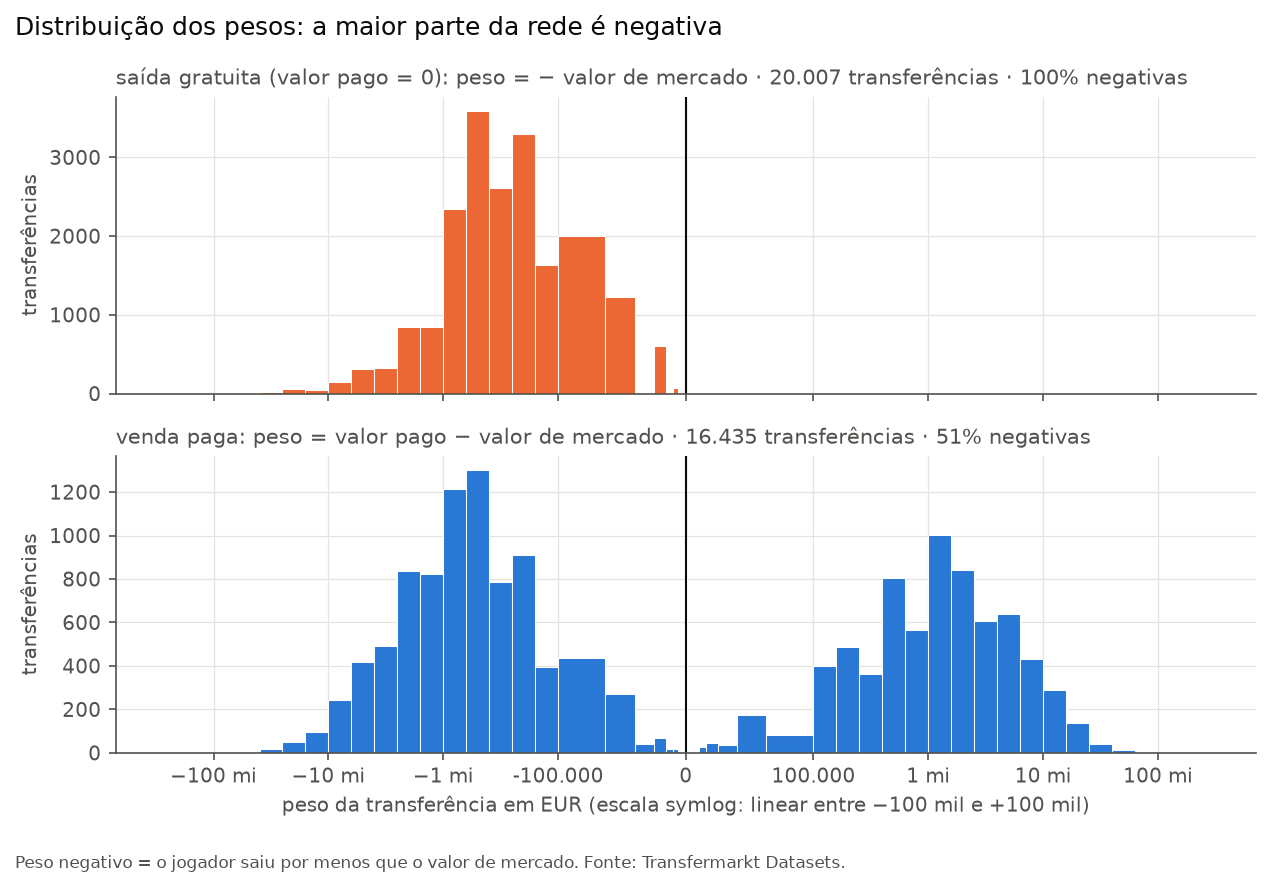
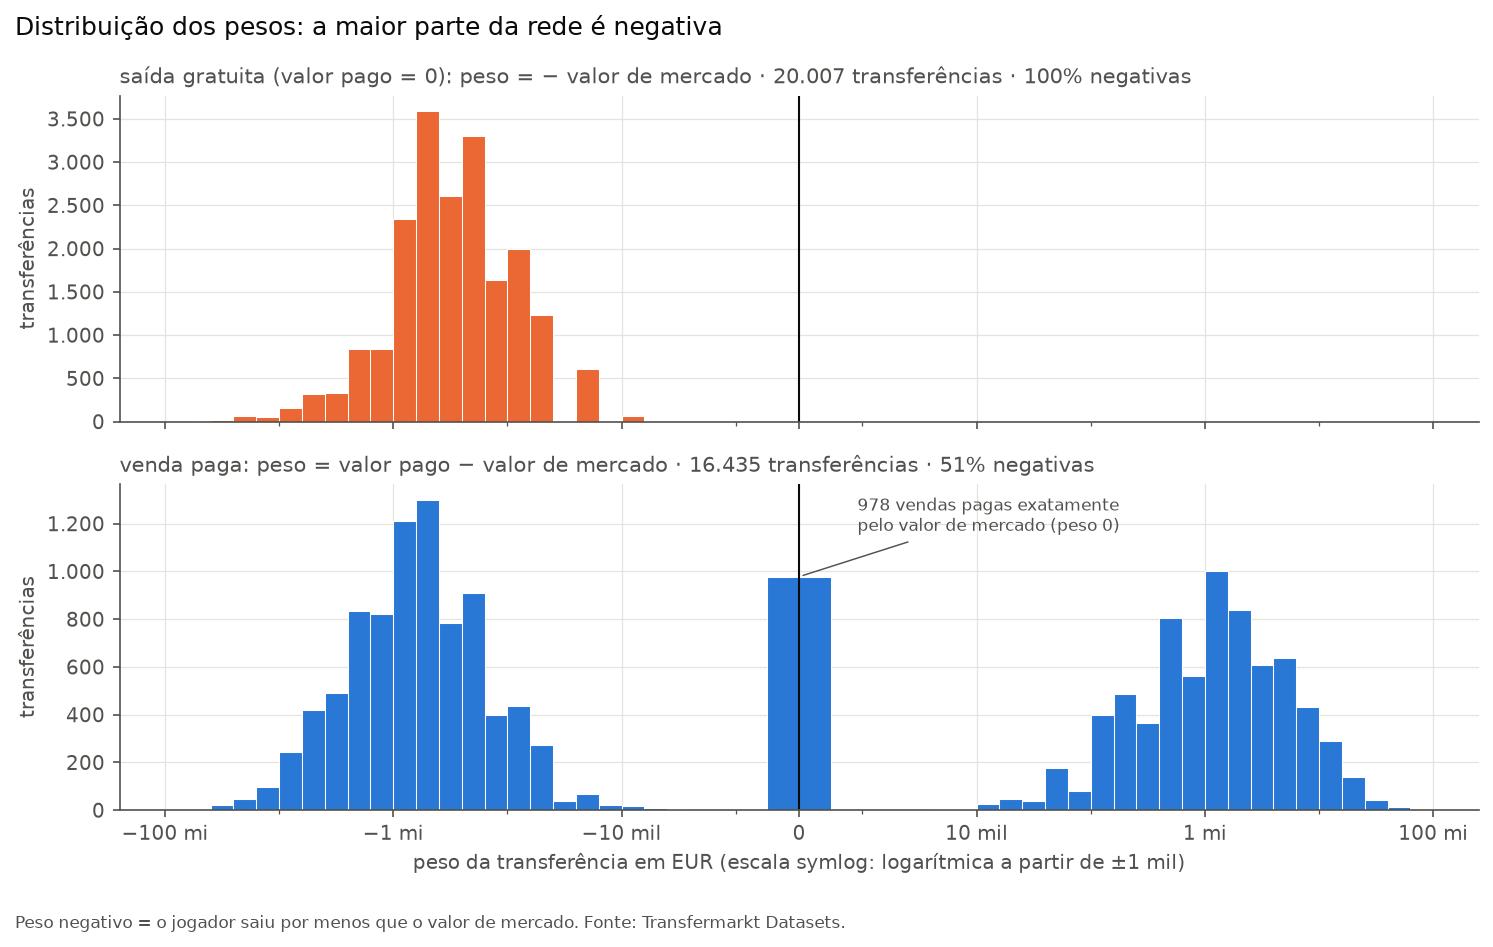
e2: escala symlog so a partir de 1 mil e bin do peso zero
Os bins eram log-espaçados até 1 mil, mas a faixa linear do symlog ia até
100 mil: os bins dentro dela saíam com larguras diferentes na tela. As 978
vendas pagas exatamente pelo valor de mercado (peso 0) ficavam invisíveis.
Agora a escala é log a partir de ±1 mil (o menor |peso| do recorte), o bin
central contém só o peso zero, com anotação, e os ticks não colidem. Nota E2
do relatório ajustada.

diff --git a/src/viz_parte2.py b/src/viz_parte2.py
@@ -160,21 +160,35 @@ def graus(d, saida):
 
 
 def pesos(t, saida):
-    fig, eixos = plt.subplots(2, 1, figsize=(8.5, 5.6), sharex=True)
-    limite = 2e8
-    bordas = np.concatenate([-np.logspace(8.4, 3, 28), [0], np.logspace(3, 8.4, 28)])
-    grupos = [("saída gratuita (valor pago = 0): peso = − valor de mercado", t[t["gratuita"]], CORES[1]),
+    fig, eixos = plt.subplots(2, 1, figsize=(10, 6), sharex=True)
+    # o menor |peso| diferente de zero no recorte é 1 mil; a partir daí a escala é log e os bins
+    # têm a mesma largura na tela. A faixa linear fica só entre −1 mil e +1 mil, e o bin central
+    # [−500, 500) contém apenas as transferências de peso exatamente zero.
+    linthresh = 1e3
+    bordas = np.concatenate([-np.logspace(8.4, 3, 28), [-500, 500], np.logspace(3, 8.4, 28)])
+    ticks = [-1e8, -1e6, -1e4, 0, 1e4, 1e6, 1e8]
+    grupos = [("saída gratuita (valor pago = 0): peso = − valor de mercado", t[t["gratuita"]], DESTAQUE),
               ("venda paga: peso = valor pago − valor de mercado", t[~t["gratuita"]], CORES[0])]
     for ax, (rotulo, g, cor) in zip(eixos, grupos):
-        ax.hist(g["peso"].clip(-limite, limite), bins=bordas, color=cor, edgecolor="white", linewidth=0.5)
-        ax.set_xscale("symlog", linthresh=1e5)
+        ax.hist(g["peso"], bins=bordas, color=cor, edgecolor="white", linewidth=0.5)
+        ax.set_xscale("symlog", linthresh=linthresh, linscale=0.5)
         ax.axvline(0, color=TEXTO, lw=1)
         neg = (g["peso"] < 0).mean()
-        ax.set_title(f"{rotulo} · {len(g):,} transferências · {neg:.0%} negativas".replace(",", "."),
+        ax.set_title(f"{rotulo} · {br(len(g))} transferências · {pct(neg)} negativas",
                      fontsize=10, color=TEXTO_2)
         ax.set_ylabel("transferências")
-    eixos[1].xaxis.set_major_formatter(FuncFormatter(lambda x, _: milhoes(x) if abs(x) >= 1e6 else f"{x:,.0f}".replace(",", ".")))
-    eixos[1].set_xlabel("peso da transferência em EUR (escala symlog: linear entre −100 mil e +100 mil)")
+        ax.yaxis.set_major_formatter(FuncFormatter(lambda v, _: br(v)))
+    pagas = grupos[1][1]
+    zero = int((pagas["peso"] == 0).sum())
+    eixos[1].annotate(f"{br(zero)} vendas pagas exatamente\npelo valor de mercado (peso 0)", (0, zero),
+                      xytext=(28, 22), textcoords="offset points", fontsize=8, color=TEXTO_2, ha="left",
+                      arrowprops={"arrowstyle": "-", "color": TEXTO_2, "lw": 0.7})
+    eixos[1].xaxis.set_major_locator(FixedLocator(ticks))
+    eixos[1].xaxis.set_major_formatter(FuncFormatter(eur))
+    eixos[1].xaxis.set_minor_locator(FixedLocator([s * 10 ** k for s in (-1, 1) for k in range(3, 9)]))
+    eixos[1].xaxis.set_minor_formatter(NullFormatter())
+    eixos[1].set_xlim(-2.5e8, 2.5e8)
+    eixos[1].set_xlabel("peso da transferência em EUR (escala symlog: logarítmica a partir de ±1 mil)")
     fig.suptitle("Distribuição dos pesos: a maior parte da rede é negativa", x=0.01, ha="left",
                  fontsize=12, color=TEXTO)
     fig.tight_layout()

diff --git a/docs/parte2/relatorio_parte2.md b/docs/parte2/relatorio_parte2.md
@@ -274,8 +274,10 @@ cauda inteira sem depender da escolha de bins, o que um histograma linear escond
 **E2 — `e2_pesos.png` (exploratória).** Histograma do peso por transferência, separado em saídas
 gratuitas e vendas pagas. Insight: as gratuitas são 100% negativas e concentradas entre −100 mil e
 −5 mi; as pagas se dividem quase ao meio, com a massa negativa um pouco maior. Por que esse
-gráfico: histograma para distribuição; escala symlog porque os pesos vão de −180 mi a +122 mi e têm
-sinal; dois painéis com o mesmo eixo x em vez de barras sobrepostas.
+gráfico: histograma para distribuição; escala symlog (logarítmica a partir de ±1 mil, o menor
+|peso| do recorte, com bins de largura igual na tela) porque os pesos vão de −180 mi a +122 mi e
+têm sinal; o bin central mostra as 978 vendas pagas exatamente pelo valor de mercado (peso 0);
+dois painéis com o mesmo eixo x em vez de barras sobrepostas.
 
 **E3 — `e3_faltantes.png` (exploratória).** % de transferências sem valor de mercado e sem valor
 pago por temporada. Insight: o valor de mercado falta por causa da época (MAR); o valor pago falta
